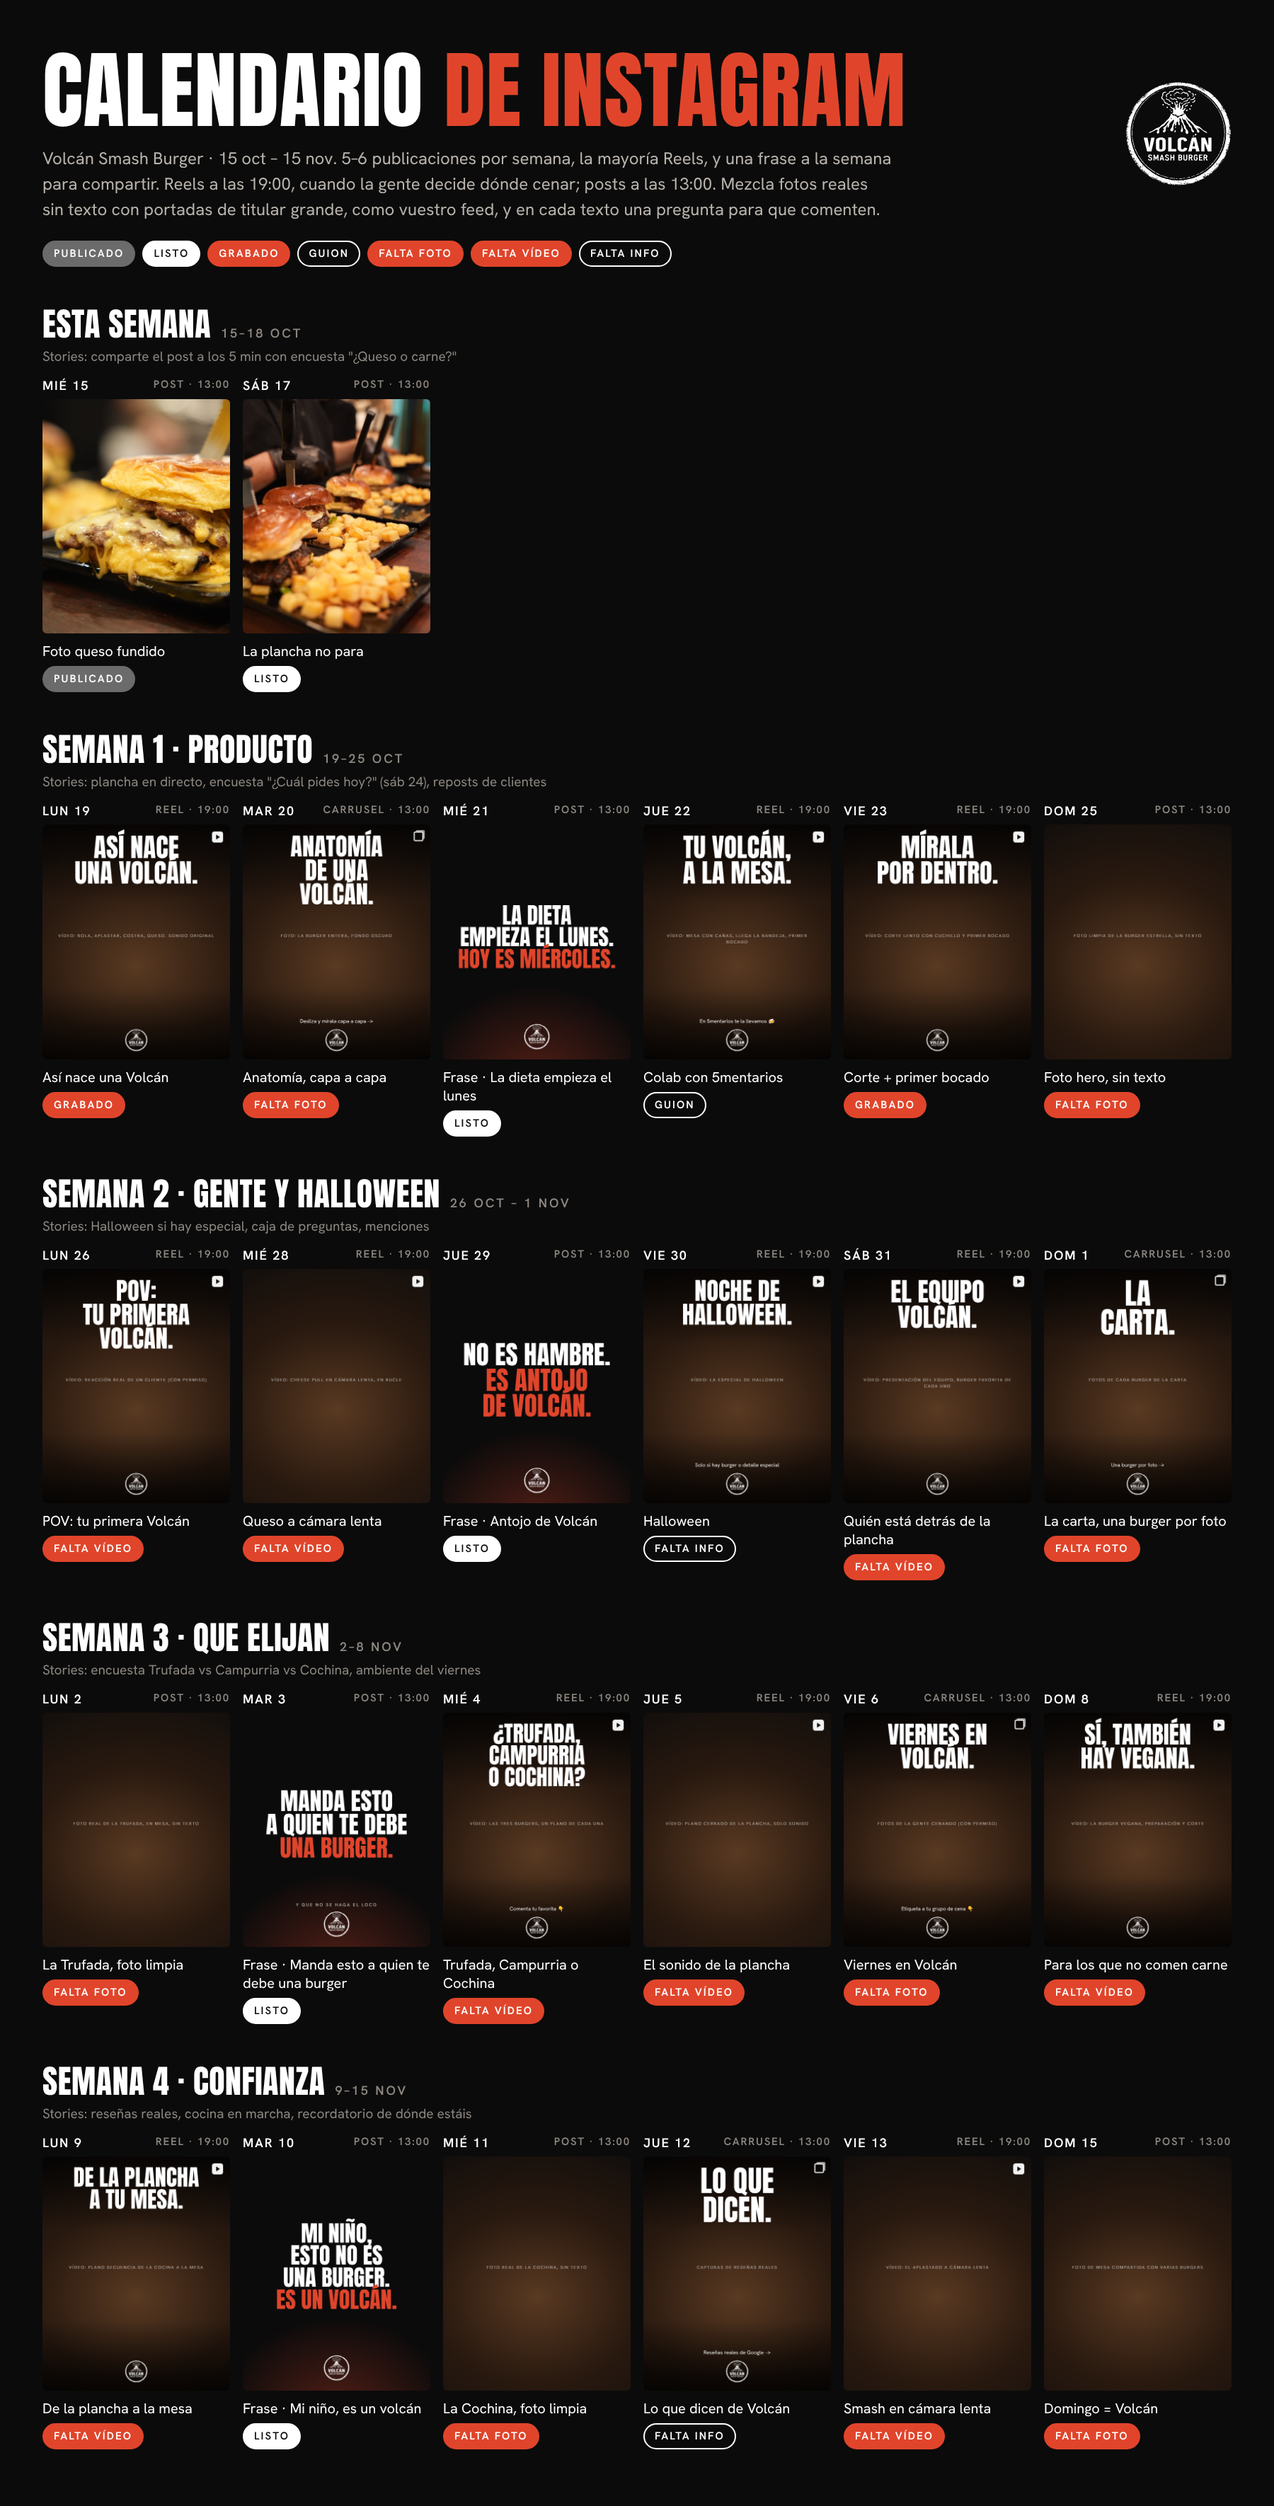
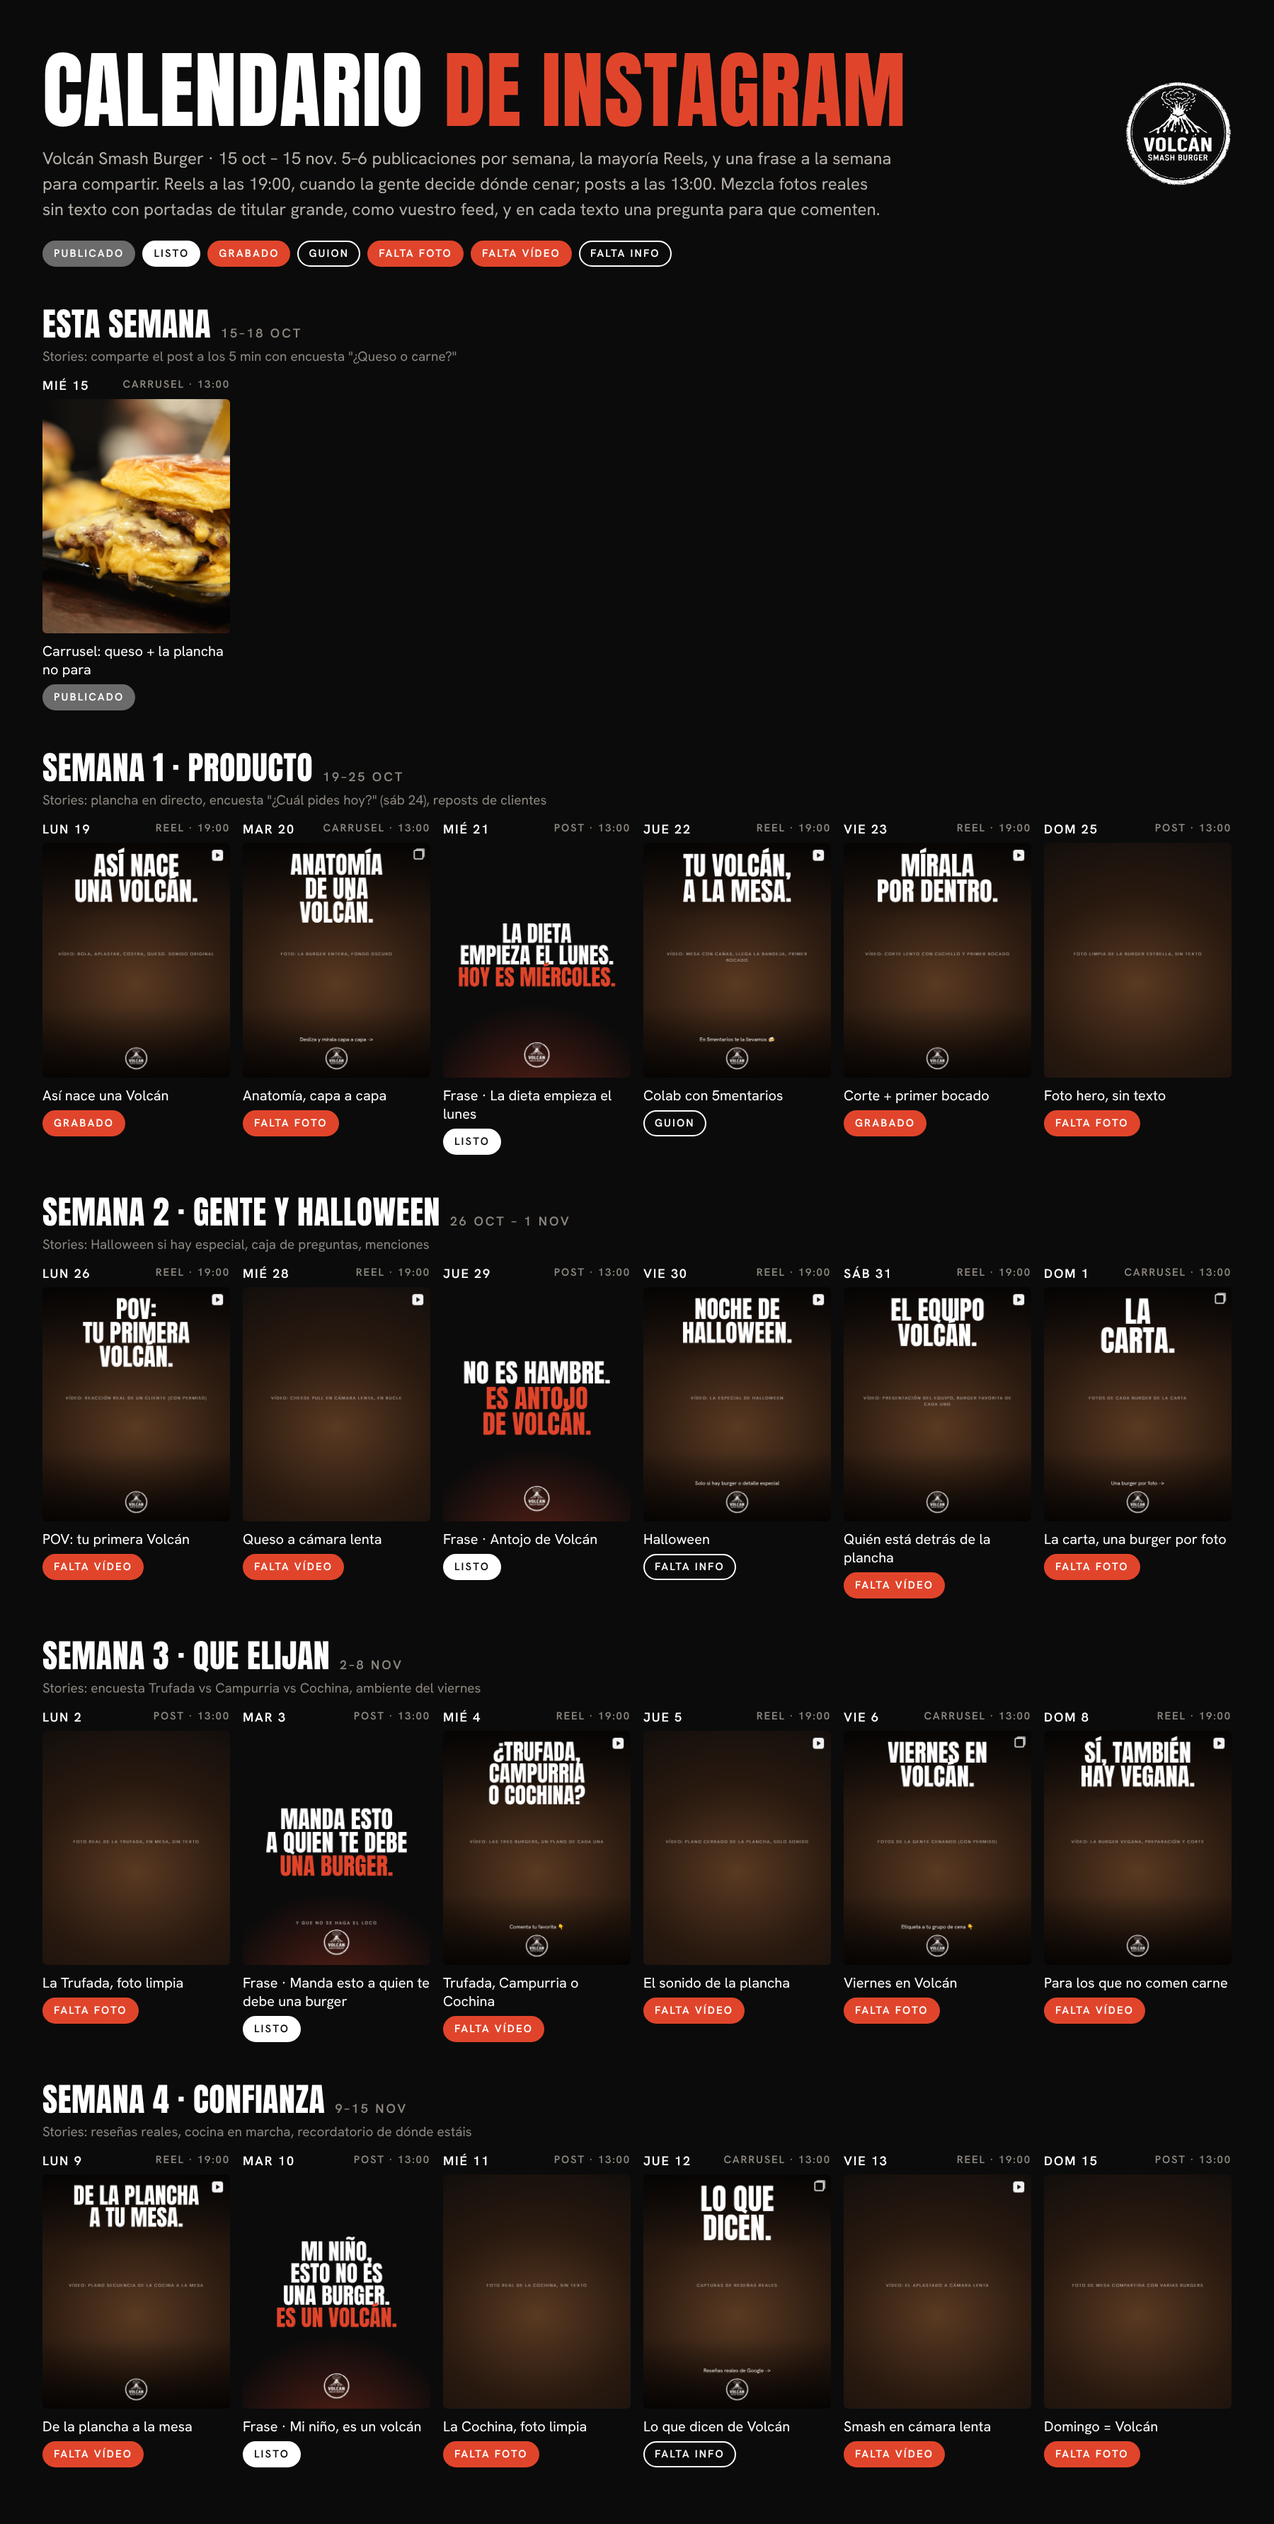
Planificador: diseños en el calendario y vista Feed; Volcán: carrusel publicado el 15
Claude-Session: https://claude.ai/code/session_01CVQ5H1Ti7YZqaj675BUrDW

diff --git a/racha/panel/planificador-contenido.html b/racha/panel/planificador-contenido.html
@@ -112,6 +112,22 @@ select.inp,input.inp{border:1px solid var(--line);background:var(--surface);bord
 .card{border:1px solid var(--line);border-left:4px solid var(--c,#999);border-radius:8px;padding:7px 8px;background:var(--soft);text-align:left;width:100%;display:block}
 .card[draggable="true"]{cursor:grab}
 .card.late{box-shadow:inset 0 0 0 1px var(--danger)}
+.thumb{display:block;width:100%;aspect-ratio:4/5;object-fit:cover;border-radius:6px;margin-bottom:7px;background:var(--line)}
+.mi img{width:18px;height:22px;object-fit:cover;border-radius:2px;flex:none}
+.feedhead{display:flex;align-items:center;gap:18px;margin-bottom:18px;flex-wrap:wrap}
+.feedhead .avr{width:84px;height:84px;border-radius:50%;overflow:hidden;background:var(--soft);border:1px solid var(--line);display:grid;place-items:center;flex:none}
+.feedhead .avr img{width:100%;height:100%;object-fit:contain}
+.feedhead b{font-size:18px} .feedhead small{display:block;color:var(--muted)}
+.fgrid{display:grid;grid-template-columns:repeat(3,minmax(0,1fr));gap:3px;max-width:720px}
+.ft{position:relative;aspect-ratio:4/5;background:var(--soft);overflow:hidden;border:0;padding:0;cursor:pointer;text-align:left}
+.ft img{width:100%;height:100%;object-fit:cover;display:block}
+.ft .ph{position:absolute;inset:0;display:flex;flex-direction:column;justify-content:center;gap:6px;padding:10px;background:linear-gradient(160deg,var(--soft),var(--line));color:var(--ink)}
+.ft .ph b{font-size:13px;line-height:1.25} .ft .ph small{font-size:11px;color:var(--muted)}
+.ft .ic{position:absolute;top:6px;right:6px;background:rgba(0,0,0,.55);color:#fff;font-size:11px;font-weight:700;border-radius:4px;padding:2px 5px}
+.ft .dt{position:absolute;left:6px;bottom:6px;background:rgba(0,0,0,.55);color:#fff;font-size:11px;font-weight:600;border-radius:4px;padding:2px 6px}
+.ft.past{opacity:.6}
+.imgbox{display:flex;gap:12px;align-items:flex-start;flex-wrap:wrap}
+.imgbox img{width:120px;aspect-ratio:4/5;object-fit:cover;border-radius:8px;border:1px solid var(--line)}
 .card .t{font-weight:600;font-size:13px;line-height:1.3;word-break:break-word}
 .card .m{display:flex;flex-wrap:wrap;gap:4px;margin-top:5px;font-size:11px;color:var(--muted);align-items:center}
 .card p{margin:5px 0 0;font-size:12px;color:var(--muted);white-space:pre-wrap;display:-webkit-box;-webkit-line-clamp:3;-webkit-box-orient:vertical;overflow:hidden}
@@ -308,6 +324,7 @@ dialog h2{margin:0;font-size:18px;display:flex;align-items:center;gap:8px}
       <div class="f"><label for="fWho">Responsable</label><input id="fWho" placeholder="Quién graba o diseña" maxlength="60"></div>
       <div class="f"><label for="fLink">Material (enlace)</label><input id="fLink" type="url" placeholder="https://drive.google.com/…"></div>
     </div>
+    <div class="f"><span class="lbl">Diseño / imagen</span><div class="imgbox"><img id="fImgPrev" alt="Diseño de la publicación" hidden><div style="display:flex;flex-direction:column;gap:6px"><label class="btn" id="fImgBtn" style="cursor:pointer">Subir imagen<input type="file" id="fImgFile" accept="image/png,image/jpeg,image/webp" hidden></label><button type="button" class="btn ghost danger" id="fImgDel" hidden>Quitar imagen</button><span class="hint" id="fImgMsg"></span></div></div></div>
     <div class="f"><label for="fNotes">Notas (planos, material, stickers…)</label><textarea id="fNotes" rows="3"></textarea></div>
     <div class="actions">
       <div><button type="button" class="btn danger" id="del">Borrar</button><button type="button" class="btn" id="dup">Duplicar</button></div>
@@ -371,7 +388,7 @@ const FIELDS=[["objetivo","Objetivo",0],["publico","Público",0],["pilares","Pil
 const TARGETS=[["tPiezas","Piezas de feed / semana"],["tReels","Reels / semana"],["tStories","Días con stories / semana"],["tSeguidores","Objetivo de seguidores"]];
 const LINKS=[["linkDrive","Carpeta de material"],["linkWeb","Web"],["contacto","Contacto del cliente"]];
 const DAYS=["Lun","Mar","Mié","Jue","Vie","Sáb","Dom"];
-const VIEWS=[["resumen","Resumen",'<path d="M3 3h7v7H3zM14 3h7v4h-7zM14 11h7v10h-7zM3 14h7v7H3z"/>'],["calendario","Calendario",'<rect x="3" y="5" width="18" height="16" rx="2"/><path d="M3 10h18M8 3v4M16 3v4"/>'],["tablero","Tablero",'<rect x="3" y="4" width="5" height="16" rx="1"/><rect x="10" y="4" width="5" height="10" rx="1"/><rect x="17" y="4" width="4" height="13" rx="1"/>'],["ideas","Ideas",'<path d="M9 18h6M10 21h4M12 3a6 6 0 0 0-4 10.5c.7.7 1 1.5 1 2.5h6c0-1 .3-1.8 1-2.5A6 6 0 0 0 12 3z"/>'],["comunidad","Comunidad",'<path d="M4 20c0-3 2.5-5 5-5M15 15c2.5 0 5 2 5 5"/><circle cx="9" cy="8" r="3"/><circle cx="16" cy="9" r="2.5"/><path d="M11 14l2 2 4-4"/>'],["cuentas","Cuentas",'<circle cx="9" cy="8" r="4"/><path d="M2 21c0-4 3-7 7-7s7 3 7 7M17 11a3 3 0 1 0 0-6M22 21c0-3-2-5.5-5-6"/>']];
+const VIEWS=[["resumen","Resumen",'<path d="M3 3h7v7H3zM14 3h7v4h-7zM14 11h7v10h-7zM3 14h7v7H3z"/>'],["calendario","Calendario",'<rect x="3" y="5" width="18" height="16" rx="2"/><path d="M3 10h18M8 3v4M16 3v4"/>'],["tablero","Tablero",'<rect x="3" y="4" width="5" height="16" rx="1"/><rect x="10" y="4" width="5" height="10" rx="1"/><rect x="17" y="4" width="4" height="13" rx="1"/>'],["ideas","Ideas",'<path d="M9 18h6M10 21h4M12 3a6 6 0 0 0-4 10.5c.7.7 1 1.5 1 2.5h6c0-1 .3-1.8 1-2.5A6 6 0 0 0 12 3z"/>'],["feed","Feed",'<rect x="3" y="3" width="5" height="6"/><rect x="9.5" y="3" width="5" height="6"/><rect x="16" y="3" width="5" height="6"/><rect x="3" y="11" width="5" height="6"/><rect x="9.5" y="11" width="5" height="6"/><rect x="16" y="11" width="5" height="6"/>'],["comunidad","Comunidad",'<path d="M4 20c0-3 2.5-5 5-5M15 15c2.5 0 5 2 5 5"/><circle cx="9" cy="8" r="3"/><circle cx="16" cy="9" r="2.5"/><path d="M11 14l2 2 4-4"/>'],["cuentas","Cuentas",'<circle cx="9" cy="8" r="4"/><path d="M2 21c0-4 3-7 7-7s7 3 7 7M17 11a3 3 0 1 0 0-6M22 21c0-3-2-5.5-5-6"/>']];
 const $=s=>document.querySelector(s);
 const esc=s=>String(s??"").replace(/[&<>"']/g,c=>({"&":"&amp;","<":"&lt;",">":"&gt;",'"':"&quot;","'":"&#39;"}[c]));
 const fmtD=new Intl.DateTimeFormat("es-ES",{day:"numeric",month:"short"});
@@ -416,6 +433,7 @@ function whenLabel(it){if(!it.date)return "Sin fecha";const d=parse(it.date);ret
 function cardHTML(it,opts={}){
   const n=checkCount(it);
   return `<div class="card${isLate(it)?" late":""}" role="button" tabindex="0" data-id="${esc(it.id)}" ${canWrite&&opts.drag!==false?'draggable="true"':""} style="--c:${esc(cColor(it.clientId))}">
+    ${it.img&&opts.thumb!==false?`<img class="thumb" src="${esc(it.img)}" alt="" loading="lazy">`:""}
     <div class="t">${it.prio==="alta"?'<span class="flag">● </span>':""}${esc(it.title||"(sin título)")}</div>
     <div class="m">${S.sel==="all"||opts.showClient?esc(cName(it.clientId))+" · ":""}${esc(it.format||"Post")}${it.time?" · "+esc(it.time):""}${opts.date&&it.date?" · "+esc(fmtD.format(parse(it.date))):""}</div>
     <div class="m">${opts.noStatus?"":pill(it.status)}<span class="prog${n===5?" full":""}">✓ ${n}/5</span>${it.pilar?`<span class="tag">${esc(it.pilar)}</span>`:""}${it.campaign?`<span class="tag">#${esc(it.campaign)}</span>`:""}</div>
@@ -457,7 +475,7 @@ function setTop(title,sub,tools){$("#vtitle").textContent=title;$("#vsub").textC
 
 function render(){
   renderShell();
-  ({resumen:renderResumen,calendario:renderCal,tablero:renderBoard,ideas:renderIdeas,cuentas:renderCuentas,comunidad:renderComunidad}[S.view]||renderResumen)();
+  ({resumen:renderResumen,calendario:renderCal,tablero:renderBoard,ideas:renderIdeas,cuentas:renderCuentas,comunidad:renderComunidad,feed:renderFeed}[S.view]||renderResumen)();
 }
 
 /* ---------- resumen ---------- */
@@ -563,7 +581,7 @@ function renderMonth(){
     const evs=dates.filter(x=>x.date===k&&(S.sel==="all"||!x.clientId||x.clientId===S.sel));
     html+=`<div class="mc${d.getMonth()!==m.getMonth()?" out":""}${k===t?" today":""}" data-date="${k}"><div class="n">${d.getDate()}</div>
       ${evs.map(e=>`<button class="mi" data-ev="${esc(e.id)}"><span>★</span><span class="ef">${esc(e.title)}</span></button>`).join("")}
-      ${list.slice(0,4).map(it=>`<button class="mi" data-id="${esc(it.id)}"><span class="dot" style="--c:${esc(cColor(it.clientId))}"></span><span>${esc((it.time?it.time+" ":"")+it.title)}</span></button>`).join("")}
+      ${list.slice(0,4).map(it=>`<button class="mi" data-id="${esc(it.id)}">${it.img?`<img src="${esc(it.img)}" alt="">`:`<span class="dot" style="--c:${esc(cColor(it.clientId))}"></span>`}<span>${esc((it.time?it.time+" ":"")+it.title)}</span></button>`).join("")}
       ${list.length>4?`<button class="more" data-week="${k}">+${list.length-4} más</button>`:""}</div>`;
   }
   html+=`</div>`;
@@ -748,6 +766,9 @@ function fillPilar(cid,val){
   $("#insTpl").innerHTML=`<option value="">+ Plantilla…</option>`+templates.filter(t=>t.clientId===cid).map(t=>`<option value="${esc(t.id)}">${esc(t.name)}</option>`).join("");
   $("#dlgDot").style.setProperty("--c",cColor(cid));
 }
+let curImg="",assetsApi;
+function showImg(){const im=$("#fImgPrev");if(curImg){im.src=curImg;im.hidden=false}else{im.removeAttribute("src");im.hidden=true}$("#fImgDel").hidden=!curImg||!canWrite;$("#fImgBtn").hidden=!canWrite;$("#fImgMsg").textContent=""}
+async function getAssets(){if(assetsApi===undefined){try{assetsApi=await claude.use("assets")}catch(e){assetsApi=null}}return assetsApi}
 function openItem(it,preset={}){
   if(!it&&!canWrite)return;
   editing=it?it.id:null;
@@ -757,6 +778,7 @@ function openItem(it,preset={}){
   $("#fStatus").value=v.status||"idea";$("#fPrio").value=v.prio||"normal";$("#fTitle").value=v.title||"";$("#fCopy").value=v.copy||"";
   $("#fNotes").value=v.notes||"";$("#fWho").value=v.who||"";$("#fLink").value=v.link||"";$("#fCampaign").value=v.campaign||"";
   fillPilar(v.clientId,v.pilar||"");
+  curImg=v.img||"";showImg();
   const ch=v.checks||{};
   $("#fChecks").innerHTML=CHECKS.map(([k,l])=>`<label><input type="checkbox" data-c="${k}"${ch[k]?" checked":""}>${l}</label>`).join("");
   $("#dlgTitle").lastElementChild.textContent=it?"Editar contenido":"Nuevo contenido";
@@ -773,12 +795,18 @@ $("#fClient").onchange=e=>fillPilar(e.target.value,"");
 $("#insHash").onclick=()=>{const h=clientOf($("#fClient").value)?.hashtags||"";if(!h)return toast("Esta cuenta no tiene hashtags");$("#fCopy").value=($("#fCopy").value.trimEnd()+"\n\n"+h).trim();updCnt()};
 $("#insTpl").onchange=e=>{const t=templates.find(x=>x.id===e.target.value);if(t){$("#fCopy").value=($("#fCopy").value?$("#fCopy").value+"\n\n":"")+t.text;updCnt()}e.target.value=""};
 $("#cancel").onclick=()=>$("#dlg").close();
+$("#fImgFile").onchange=async()=>{const f=$("#fImgFile").files[0];if(!f)return;const a=await getAssets();
+  if(!a){$("#fImgMsg").textContent="No se pueden subir imágenes desde aquí.";return}
+  $("#fImgMsg").textContent="Subiendo…";
+  try{const r=await a.upload(f);curImg=r.url;showImg();$("#fImgMsg").textContent="Imagen lista: pulsa Guardar."}catch(e){$("#fImgMsg").textContent="No se pudo subir ("+(e.code||"error")+")"}
+  $("#fImgFile").value=""};
+$("#fImgDel").onclick=()=>{curImg="";showImg()};
 $("#copyCopy").onclick=()=>navigator.clipboard.writeText($("#fCopy").value).then(()=>toast("Texto copiado"),()=>toast("No se pudo copiar"));
 function formData(){
   const checks={};$("#fChecks").querySelectorAll("input").forEach(i=>checks[i.dataset.c]=i.checked);
   return {clientId:$("#fClient").value,format:$("#fFormat").value,date:$("#fDate").value,time:$("#fTime").value,status:$("#fStatus").value,prio:$("#fPrio").value,
     title:$("#fTitle").value.trim(),copy:$("#fCopy").value,notes:$("#fNotes").value,who:$("#fWho").value.trim(),link:$("#fLink").value.trim(),
-    campaign:$("#fCampaign").value.trim(),pilar:$("#fPilar").value,checks};
+    campaign:$("#fCampaign").value.trim(),pilar:$("#fPilar").value,checks,img:curImg||""};
 }
 $("#form").addEventListener("submit",async e=>{
   e.preventDefault();if(!db||!canWrite)return;
@@ -793,6 +821,25 @@ $("#dup").onclick=async()=>{const data=formData();data.title+=" (copia)";data.st
   try{await db.collection("items").add({...data,createdAt:new Date().toISOString()});$("#dlg").close();toast("Duplicado")}catch(e){toast("No se pudo duplicar")}};
 $("#del").onclick=async()=>{if(!editing||!confirm("¿Borrar este contenido?"))return;
   try{await db.doc("items/"+editing).delete();$("#dlg").close();toast("Borrado")}catch(err){toast("No se pudo borrar")}};
+
+/* ---------- feed (vista previa del perfil) ---------- */
+function renderFeed(){
+  setTop("Feed","Así quedará el perfil, con lo publicado y lo programado","");
+  if(S.sel==="all"){
+    $("#view").innerHTML=`<div class="panel"><h3>Elige una cuenta</h3><div class="rows">${clients.map(c=>`<button class="r" data-pick="${esc(c.id)}">${av(c,1)}<span class="tx"><b>${esc(c.name)}</b><small>${esc(c.handle||"")}</small></span><span class="when">${items.filter(i=>i.clientId===c.id&&i.date&&i.img).length} con diseño</span></button>`).join("")}</div></div>`;
+    $("#view").querySelectorAll("[data-pick]").forEach(b=>b.onclick=()=>{S.sel=b.dataset.pick;persist();render()});return;
+  }
+  const c=clientOf(S.sel);if(!c){$("#view").innerHTML="";return}
+  const t=today();
+  const list=items.filter(i=>i.clientId===c.id&&i.date&&i.format!=="Story").sort((a,b)=>(b.date+(b.time||"")).localeCompare(a.date+(a.time||"")));
+  const logo=((c.brand&&c.brand.logos)||[]).find(l=>safeSvg(l.svg)&&/iso|sello/i.test(l.name))||((c.brand&&c.brand.logos)||[]).find(l=>safeSvg(l.svg));
+  const withImg=list.filter(i=>i.img).length;
+  $("#view").innerHTML=`<div class="feedhead"><span class="avr" style="background:${logo&&/^#[0-9a-f]{3,8}$/i.test(logo.bg||"")?logo.bg:"var(--soft)"}">${logo?`<img src="${svgUrl(logo.svg)}" alt="">`:av(c)}</span><div><b>${esc(c.handle||c.name)}</b><small>${list.filter(i=>i.date<=t).length} publicadas o de hoy · ${list.filter(i=>i.date>t).length} programadas · ${withImg} con diseño</small></div></div>
+   ${list.length?`<div class="fgrid">${list.map(it=>{const ic=it.format==="Reel"?"▶":it.format==="Carrusel"?"❐":"";
+     return `<button class="ft${it.date<t?" past":""}" data-id="${esc(it.id)}" aria-label="${esc(it.title||"")}">${it.img?`<img src="${esc(it.img)}" alt="" loading="lazy">`:`<span class="ph"><b>${esc(it.title||"")}</b><small>${esc(it.format)} · ${SMAP[it.status]?.[1]||""}</small></span>`}${ic?`<span class="ic">${ic}</span>`:""}<span class="dt">${esc(fmtD.format(parse(it.date)))}</span></button>`}).join("")}</div>`:'<div class="empty">Esta cuenta no tiene publicaciones con fecha.</div>'}
+   <p class="sub" style="margin-top:12px;color:var(--muted);font-size:12px">Arriba lo más reciente, como en Instagram. Las atenuadas ya pasaron. Pulsa una para editarla o subir su diseño.</p>`;
+  $("#view").querySelectorAll(".ft").forEach(b=>b.onclick=()=>openItem(items.find(x=>x.id===b.dataset.id)));
+}
 
 /* ---------- comunidad ---------- */
 const CATC={"Running y trail":"#FF5A1F","Cafeterías y brunch":"#8A5A3C","Gimnasios, yoga y pilates":"#1F8A5B","Nutrición y entrenadores":"#6E7BD9","Eventos y tiendas":"#B556C7","Otros":"#888"};
